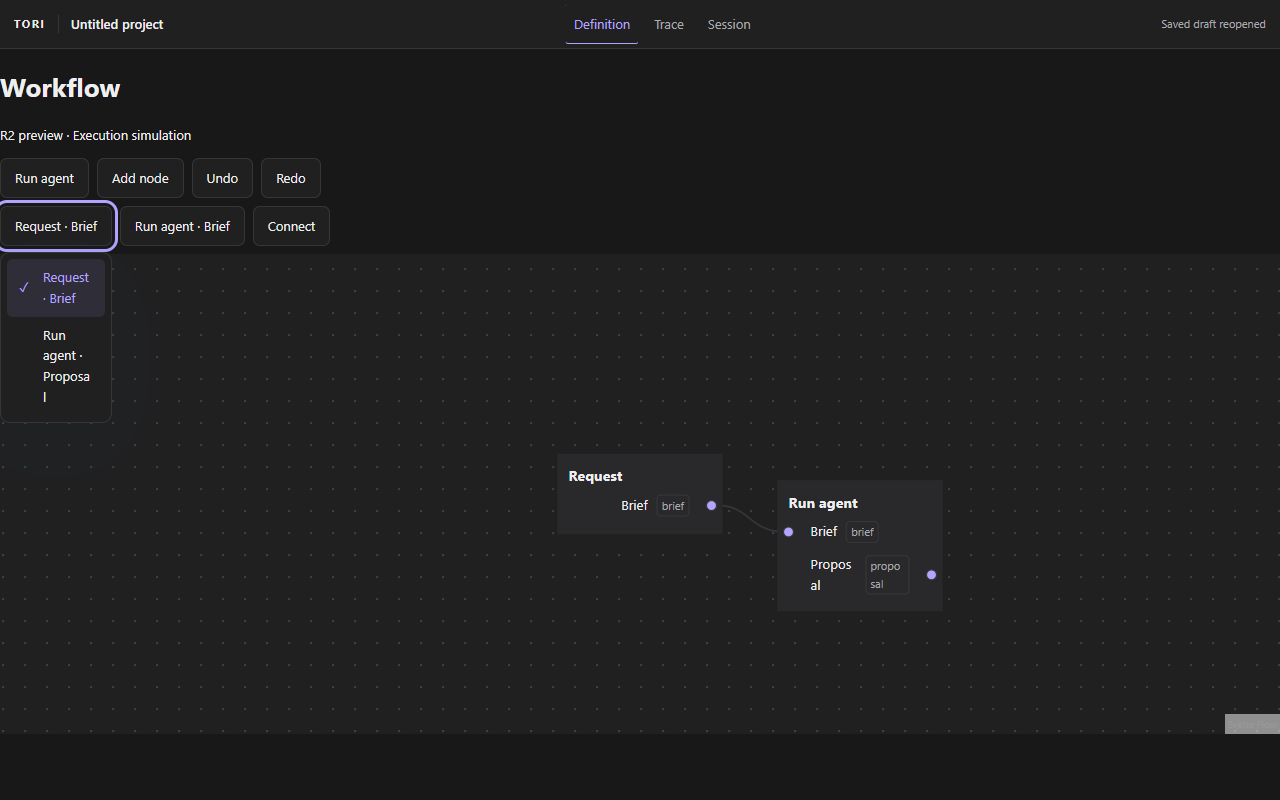
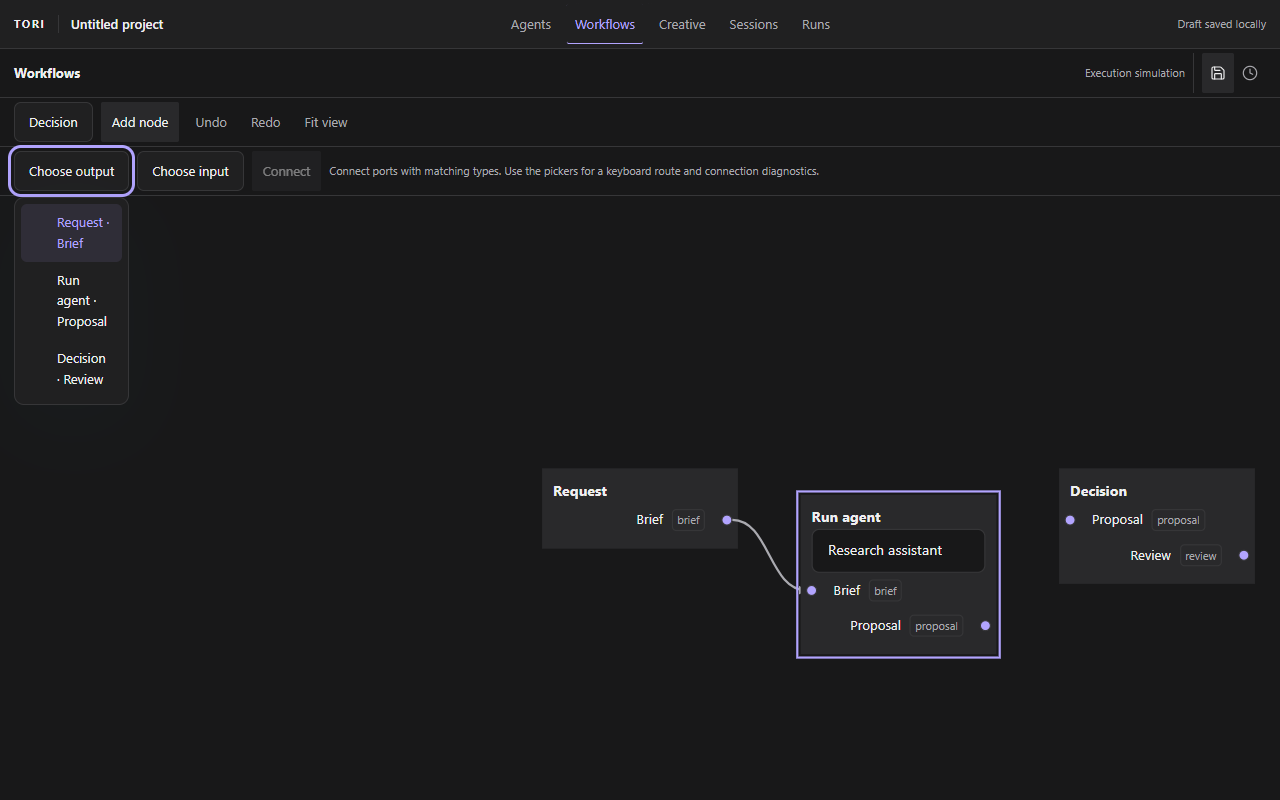
Record the R2 walkthrough and public VICT control evidence

diff --git a/docs/evidence/u0/VICT-CONTROL-AUDIT.md b/docs/evidence/u0/VICT-CONTROL-AUDIT.md
@@ -1,17 +1,21 @@
 # Public VICT control audit
 
-Scope is the current R1 Definition workspace, R2 Workflow preview and the Trace and Session placeholder states. The installed VICT packages come from the [pinned G0 artifacts](../g0/DEPENDENCIES.md).
+Scope is the five-page N1 shell and amended R2 walkthrough. The installed VICT packages come from the [pinned G0 artifacts](../g0/DEPENDENCIES.md).
 
 | Role | TORI source | Public implementation |
 | --- | --- | --- |
-| Fixed-choice node, output and input pickers | `WorkflowPreview.svelte` | `@victframework/ui-svelte/catalog/select` |
+| Fixed-choice node, agent reference, output and input pickers | `WorkflowPreview.svelte` | `@victframework/ui-svelte/catalog/select` |
 | Find agent and selected item | `Studio.svelte` | `@victframework/ui-svelte/catalog/dropdown-menu`, radio group and radio items |
-| Navigation and document, canvas, workflow and recovery actions | `Studio.svelte`, `AddAgent.svelte`, `WorkflowPreview.svelte` | `@victframework/ui-svelte/catalog/button` |
-| Agent name and multiline instructions | `Studio.svelte` | Public `Input` and `Textarea` from `@victframework/ui-ai-svelte` |
-| Document status, save/reopen errors, placeholder empty states | `Studio.svelte` | Public `Feedback` from `@victframework/ui-svelte` |
-| Canvas, typed ports, native connection diagnostics | `AgentCanvas.svelte`, `Studio.svelte`, `WorkflowPreview.svelte` | Public `GraphWorkspaceV3`, `GraphViewport` and `GraphPortRow` from `@victframework/ui-flow-svelte` |
+| Navigation and document, canvas, comparison, branch and recovery actions | `Studio.svelte`, `AddAgent.svelte`, `WorkflowPreview.svelte`, `CreativeCanvas.svelte`, `DraftActions.svelte` | `@victframework/ui-svelte/catalog/button`, with public `MediaIcon` from `@victframework/ui-media-svelte` for icon actions |
+| Agent name, agent instructions and Creative direction notes | `Studio.svelte`, `CreativeCanvas.svelte` | Public `Input` and `Textarea` from `@victframework/ui-ai-svelte` |
+| Document status, save/reopen errors, placeholder empty states | `Studio.svelte`, `WorkflowPreview.svelte`, `CreativeCanvas.svelte` | Public `Feedback` from `@victframework/ui-svelte` |
+| Canvas, typed ports, native connection diagnostics | `AgentCanvas.svelte`, `Studio.svelte`, `WorkflowPreview.svelte`, `CreativeCanvas.svelte` | Public `GraphWorkspaceV3`, `GraphViewport` and `GraphPortRow` from `@victframework/ui-flow-svelte` |
 | Dialogs | No dialog is exposed by these review routes | Check public VICT dialog and focus behavior when a dialog is introduced |
 
 At each checkpoint repeat the source audit for the changed controls and attach running UI evidence for the relevant states. Record the exact public API limitation in the [exception register](../../governance/UI-EXCEPTIONS.md) before introducing a substitute. A placeholder does not verify the future interactive surface.
 
-Chrome passed the R1 authoring and save-conflict walkthrough plus R2 picker opening, selection, edge creation, invalid connection refusal and Undo/Redo. See [open Workflow Select](studio-control-workflow-select.png) and [R1 fields with persistent save feedback](studio-control-save-conflict.png).
+The installed Chrome check covers the R1 authoring and save-conflict walkthrough, the rendered catalog Button marker, Select expanded and selected states, disabled Connect and Reopen, the rendered VICT Textarea marker, native typed port drag, invalid-link refusal and diagnostic, Undo/Redo, Save/reopen, and the Runs empty state. Workflow saves the reference by agent ID. Creative keeps the source direction intact when branching. See [open Workflow Select](studio-control-workflow-select.png), [invalid connection feedback](studio-r2-workflow-validation.png), [saved workflow](studio-r2-workflow-reopened.png), [Creative comparison](studio-r2-creative-comparison.png), and [Agents save-conflict feedback](studio-control-save-conflict.png).
+
+The installed Flow viewport refuses an incompatible pointer drop during gesture validation and does not emit a rejection diagnostic for that drop. The supported Output and Input Select path invokes the public graph operation and shows its reason. The toolbar points users to that path. No substitute control was added. Full touch, increased-zoom and assistive technology checks remain open.
+
+Verification used Node 24.15.0, installed VICT artifacts from the G0 source commit, and Chrome at 1280 × 800, with the carried-forward Agents keyboard flow at 640 × 800 and reduced motion. Run the production build with `node node_modules/vite/bin/vite.js build` from the Studio directory. From the repository root run `node scripts/check-studio-browser.mjs <playwright-entry> <chrome-path> http://127.0.0.1:48748/ "" <absolute-studio-directory>`. The local browser check starts and stops its own Vite server. The earlier independent import proof remains linked from G0.

diff --git a/docs/evidence/u0/OWNER-REVIEWS.md b/docs/evidence/u0/OWNER-REVIEWS.md
@@ -32,3 +32,15 @@ On 4 November 2026 the owner approved the latest R1 tweaks and requested the mov
 ## U0-R2 · implementation started
 
 The early Workflow preview is available at http://127.0.0.1:48743/?preview=workflow. Add Request and Run agent, choose their Brief endpoints, then Connect. Chrome verified native edge rendering, Undo/Redo and rejection of an invalid connection with the existing edge retained. The preview is in-memory. Workflow persistence, semantic fixture checks and the creative canvas remain open before the formal R2 walkthrough.
+
+## U0-R2 · offered
+
+Open [Studio](http://127.0.0.1:48743/) on the feature branch. The five pages follow Constitution N1. The tested application candidate is `0032faa59ddabc78e68e87945285c090ed0aa977`, on top of PR #2 at `7393401e780f2565cc69838555e6ce4a365e7efb` and the N1 terminology correction at `e2c496f`.
+
+1. **Agents.** Add an agent, name it, edit its instructions, and save. Visit Workflows and return to Agents. Your agent and inspector state should still be there. Reload and check the saved draft.
+2. **Workflows.** Add Request, Run agent and Decision from the Node Select. Choose your agent in Run agent. Drag Request’s Brief output to Decision’s Proposal input and confirm that no edge is created. Drag Brief to Run agent’s Brief input to create an edge. The Output and Input Selects offer a keyboard connection path with a visible diagnostic for incompatible types. Undo and redo the link, save, then undo and use Reopen saved draft to restore the saved link. Fit view brings the graph into view.
+3. **Creative.** Open Compare directions to see Metallic, Biological and Architectural together. Edit the notes on a canvas card. Branch that direction from the comparison panel, then undo and redo the branch. Save, edit again and reopen to recover the saved notes and variations. Reload and revisit Creative to check persistence.
+
+[Saved workflow](studio-r2-workflow-reopened.png) · [Invalid connection feedback](studio-r2-workflow-validation.png) · [Creative comparison](studio-r2-creative-comparison.png) · [VICT control audit](VICT-CONTROL-AUDIT.md)
+
+Creative uses synthetic text directions. Artifact comparison, preferred-result selection and workflow conversion remain open. Sessions and Runs show labelled simulation placeholders. The walkthrough covers the amended R2 interactions and leaves full fixture, cross-view execution identity and independent U0 verification open.

diff --git a/STATE.md b/STATE.md
@@ -1,5 +1,9 @@
 # TORI current state
 
+**4 November 2026 — G0 dependency proof recorded, U0-R1 accepted, and U0-R2 offered for owner walkthrough.** The active implementation branch is `codex/tori-ui-foundation`. See [installed VICT evidence](docs/evidence/g0/DEPENDENCIES.md), [owner checkpoints](docs/evidence/u0/OWNER-REVIEWS.md), and the [R2 control audit](docs/evidence/u0/VICT-CONTROL-AUDIT.md). TORI-001 governs the current assignment. R3 and final U0 engineering verification and acceptance are open.
+
+## Historical bootstrap snapshot
+
 **2 November 2026 — Repository preparation complete; Node & Edge Foundation v0.1 adopted; application implementation not started.** The historical bootstrap has independent documentation-only PASS at remote candidate `e4ae1cfe86385420724565f67d77c28ec50e26ea`, verified equal to its reviewed local file tree; its GitHub documentation CI passed. [Bootstrap validation](docs/evidence/bootstrap/VALIDATION.md) records those identities, corrections and limits. Subsequent ownership, Work coordination and Node & Edge amendments are documentation changes with their own commit/review attribution. There is no runtime, UI acceptance, independent product verdict, or deployed TORI service.
 
 ## Authority and readiness

diff --git a/apps/studio/README.md b/apps/studio/README.md
@@ -4,9 +4,9 @@ Build and pack the pinned VICT checkout by following the [G0 instructions](../..
 
 ```powershell
 npm ci --no-audit --no-fund
-node node_modules/vite/bin/vite.js --host 127.0.0.1 --port 48742 --strictPort
+node node_modules/vite/bin/vite.js --host 127.0.0.1 --port 48743 --strictPort
 ```
 
-Open [TORI Studio](http://127.0.0.1:48742/). The [first walkthrough](../../docs/evidence/u0/OWNER-REVIEWS.md) lists the authoring actions to try.
+Open [TORI Studio](http://127.0.0.1:48743/). The [owner walkthroughs](../../docs/evidence/u0/OWNER-REVIEWS.md) list the authoring actions to try. Agents, Workflows and Creative each store a separate draft in browser local storage for this origin. Switching to a different port or browser profile gives you a different set of drafts.
 
 The browser check takes the absolute Playwright ESM entry path, Chrome executable, Studio URL, consumer URL, Studio directory, and consumer directory. The last two arguments start temporary Vite servers. The consumer directory must already contain the production build from the G0 probe.

diff --git a/HANDOFF.md b/HANDOFF.md
@@ -1,5 +1,7 @@
 # TORI handoff
 
+**Current implementation handoff (4 November 2026).** R1 is accepted. The R2 walkthrough on `codex/tori-ui-foundation` uses the [N1 five-page shell](docs/specs/STUDIO-DESIGN-CONSTITUTION.md#product-experience-and-navigation). See [the owner walkthrough](docs/evidence/u0/OWNER-REVIEWS.md) for launch, tested interactions and remaining gaps. Read the live TORI-001 handoff for assignment and review status. Final U0 UI acceptance remains a separate owner decision.
+
 ## Current bootstrap authority
 
 The owner supplied `https://github.com/radz2291/VICT-Tori` and asked: **“This is your repo.. pls prepare in detail.”** The surrounding instruction is to prepare the repository before handing implementation to Codex. This authorizes the specification/bootstrap commit, not a claim that the application has been implemented or accepted.
